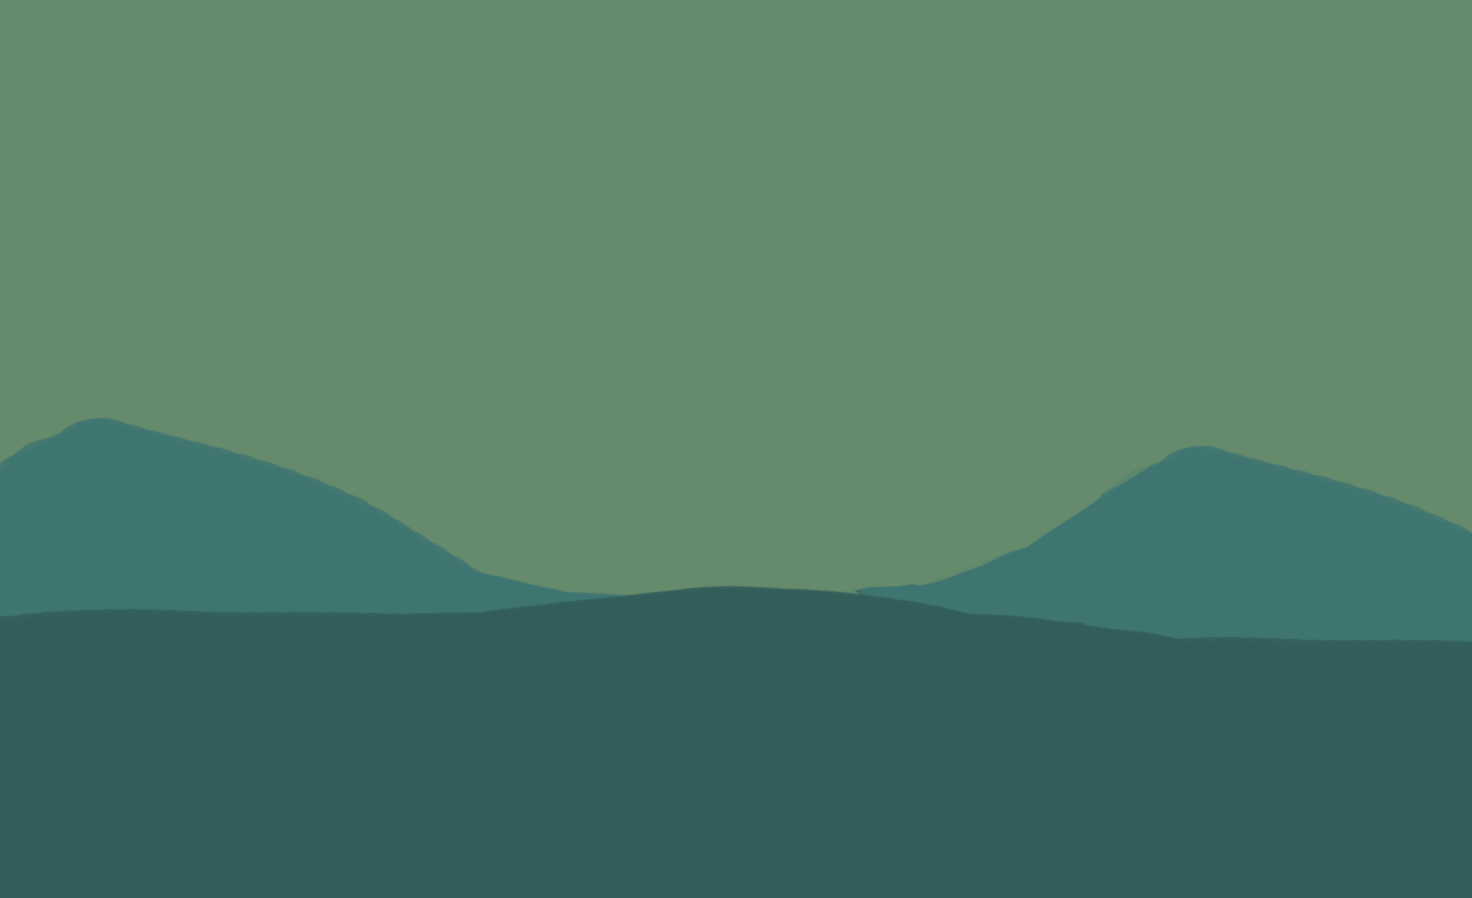
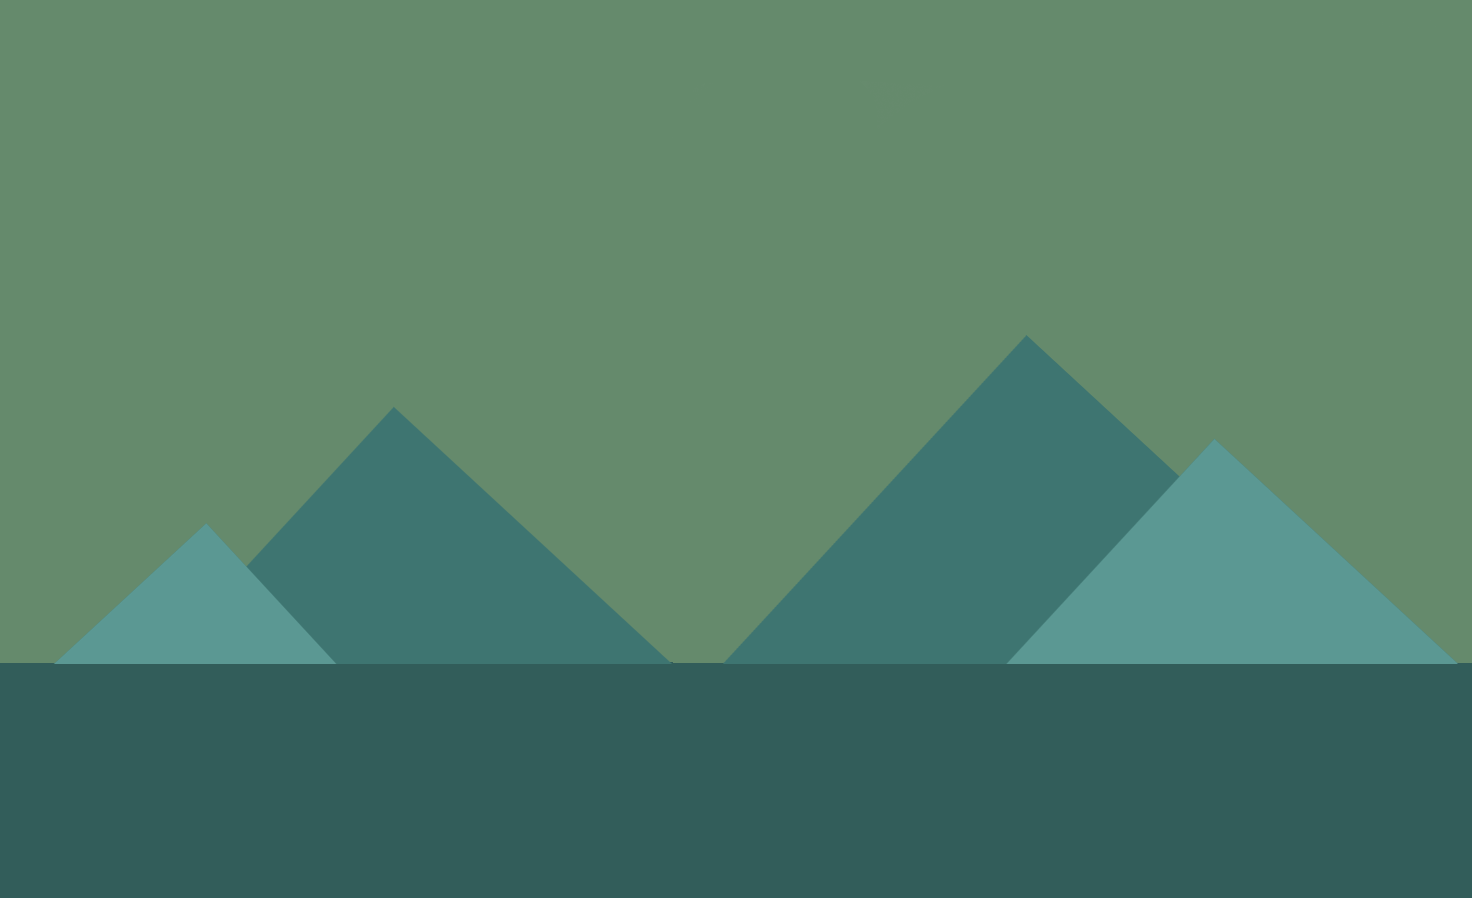
fix: change background image

Changed region(s): [[0.5312, 0.3742, 1.0, 0.7483], [0.0, 0.4365, 0.5312, 0.7483]]

diff --git a/src/index.css b/src/index.css
@@ -13,16 +13,16 @@
 @media (max-width: 360px) {
   body{
     background-color:#325d5a;
-    background-image: url("back_mobile.png");
-    background-repeat:repeat-x;
-    background-size: cover;
+    background-image: url("/back.png");
+    background-repeat: repeat-x;
+
     }
     }
 @media (min-width: 360px) {
 body{
   background-color:#325d5a;
   background-image: url("/back.png");
-  background-repeat:repeat-x;
-  background-size: cover;
+  background-repeat: repeat-x;
+
   }
   }
